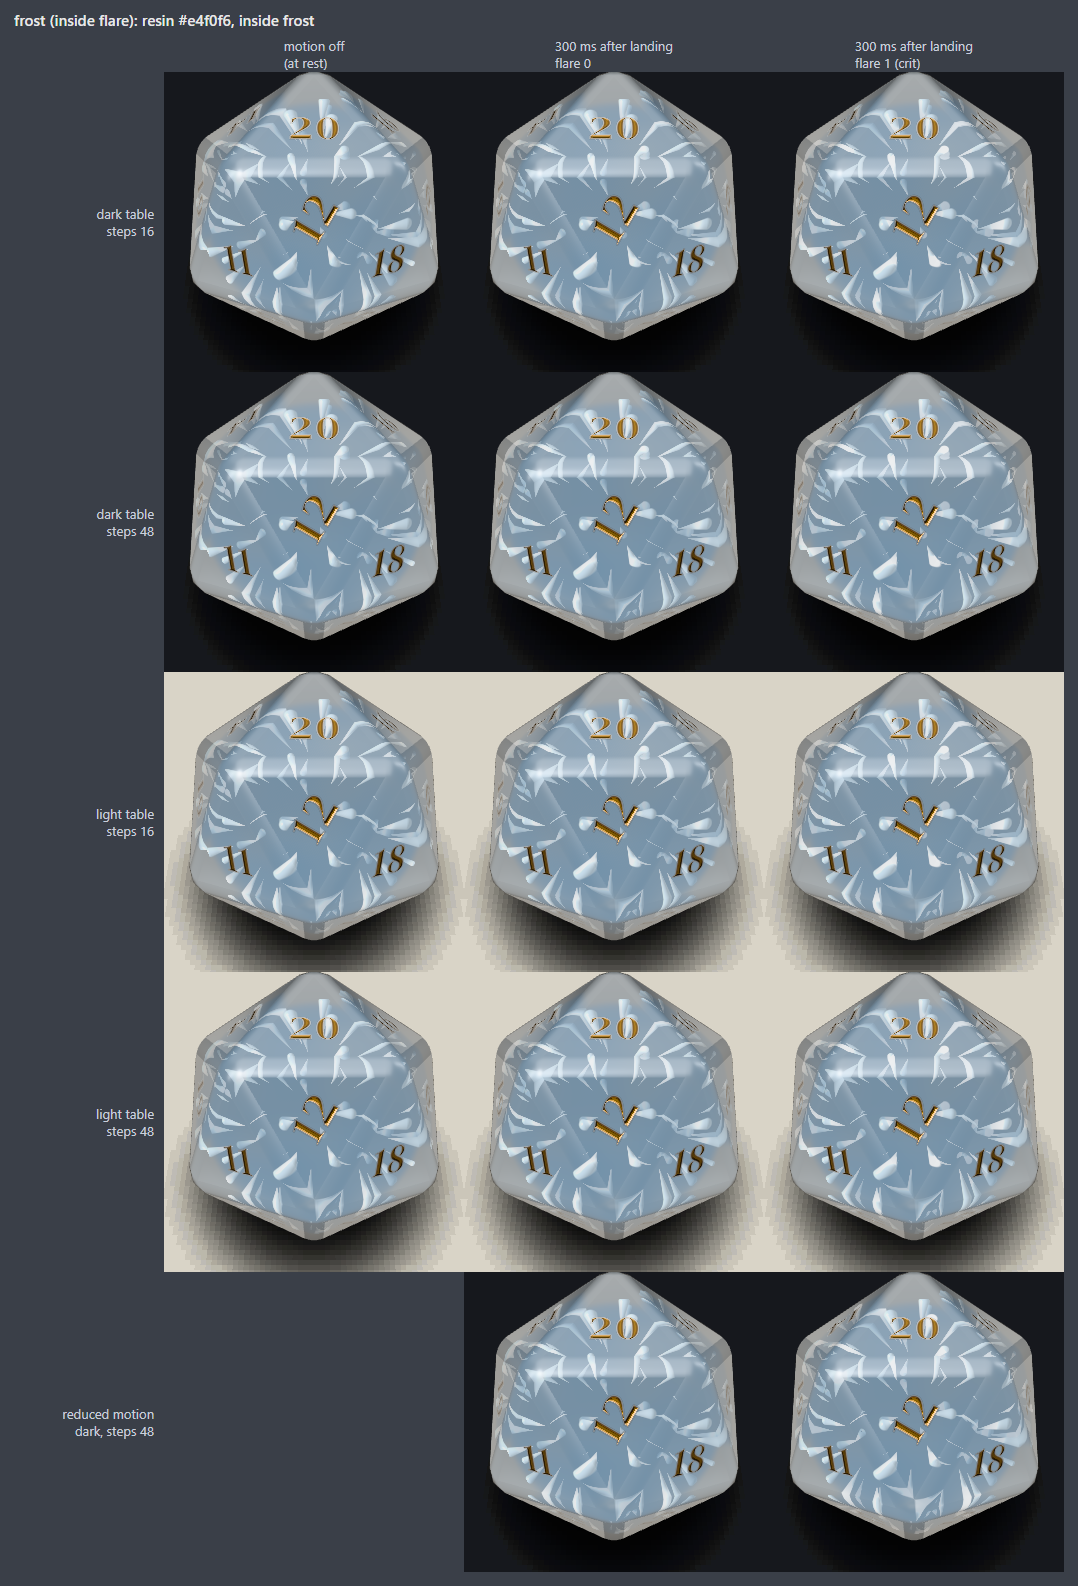
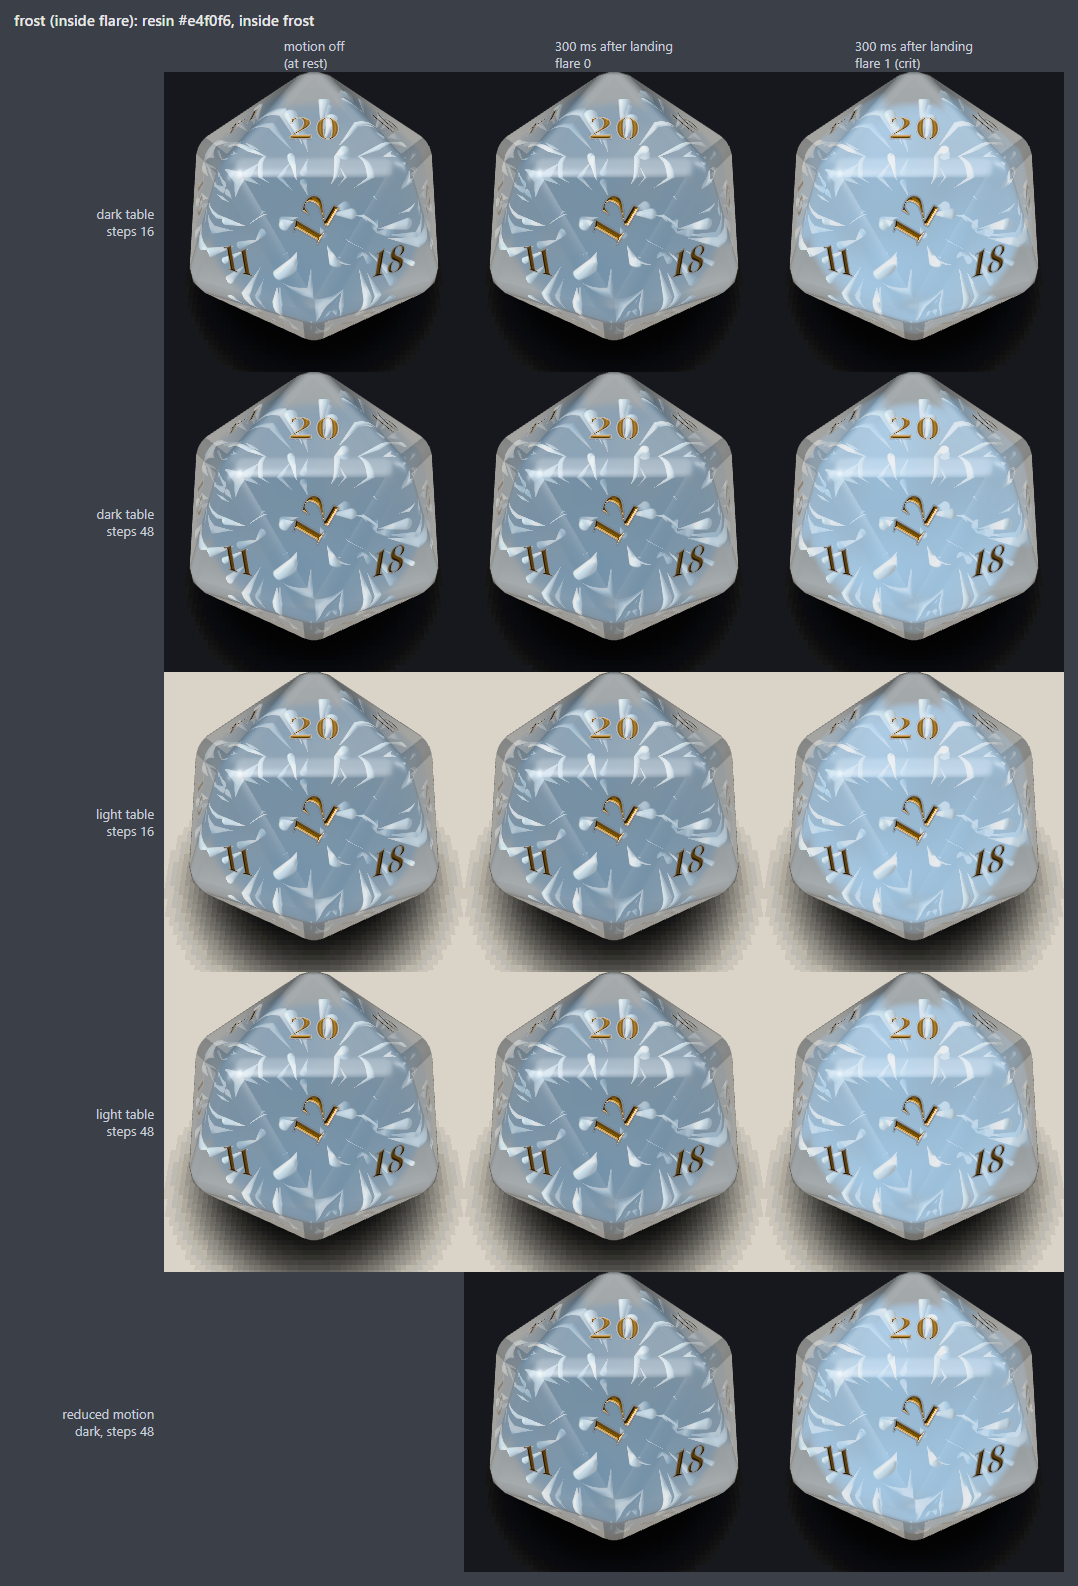
fix(insides): cap flare amount, legible lava, visible frost flash
Cap each flare's amount at 1 so number-flare (intensity 2.5) keeps the
reduced-motion 300 ms rise and has no saturated plateau. Lava at flare 1
opens cracks only half way and widens them a third (hotter lips instead),
so the numbers read. Frost flashes in the haze between the pale spikes.
README notes the four built-in shapes do not brighten.

diff --git a/tests/unit/inside-flare.test.js b/tests/unit/inside-flare.test.js
@@ -91,19 +91,26 @@ describe('flareInside', () => {
     const die = insideDie();
     const ctx = ctxFor(die);
     const a = flareInside(ctx, die, { amount: 2.5, duration: 900 });
-    const b = flareInside(ctx, die, { amount: 0.6, duration: 2000 });
+    const b = flareInside(ctx, die, { amount: 0.3, duration: 2000 });
+    const c = flareInside(ctx, die, { amount: 1, duration: 900 });
     a.update(0);
     b.update(0);
+    c.update(0);
     a.update(80);
     b.update(80);
-    expect(die.uniforms.uInteriorFlare.value).toBe(1); // capped
+    c.update(80);
+    expect(die.uniforms.uInteriorFlare.value).toBe(1); // two at full: still 1
+    // an amount above 1 is capped per flare: no saturated plateau, it follows the envelope
+    c.stop();
+    a.update(490);
+    expect(die.uniforms.uInteriorFlare.value).toBeCloseTo(flareLevel(490, 900, false), 5);
     // a ends: b's own level takes over (not a's leftover, not zero)
     b.update(900);
     a.update(900);
-    const bLevel = 0.6 * flareLevel(900, 2000, false);
+    const bLevel = 0.3 * flareLevel(900, 2000, false);
     expect(die.uniforms.uInteriorFlare.value).toBeCloseTo(bLevel, 5);
     b.update(1000);
-    expect(die.uniforms.uInteriorFlare.value).toBeCloseTo(0.6 * flareLevel(1000, 2000, false), 5);
+    expect(die.uniforms.uInteriorFlare.value).toBeCloseTo(0.3 * flareLevel(1000, 2000, false), 5);
     b.stop();
     expect(die.uniforms.uInteriorFlare.value).toBe(0);
   });
@@ -118,6 +125,18 @@ describe('flareInside', () => {
     weak.update(80);
     weak.update(160);
     expect(die.uniforms.uInteriorFlare.value).toBeCloseTo(flareLevel(80, 900, false), 5);
+  });
+
+  test('an amount above 1 keeps the reduced-motion 300 ms rise (capped, not saturated early)', () => {
+    const die = insideDie();
+    const h = flareInside(ctxFor(die, { reducedMotion: true }), die, { amount: 2.5, duration: 900 });
+    h.update(0);
+    h.update(80);
+    expect(die.uniforms.uInteriorFlare.value).toBeLessThan(0.5);
+    h.update(200);
+    expect(die.uniforms.uInteriorFlare.value).toBeLessThan(0.95);
+    h.update(600);
+    expect(die.uniforms.uInteriorFlare.value).toBeCloseTo(flareLevel(600, 900, true), 5); // no plateau
   });
 
   test('reduced motion: the written flare rises over 300 ms', () => {
@@ -161,12 +180,20 @@ describe('flareInside', () => {
     expect(d3.uniforms.uInteriorFlare.value).toBe(0);
     // no die at all
     expect(() => flareInside(ctxFor(null), null, {}).update(0)).not.toThrow();
-    // a throwing setting reader counts as on (the layer's setting() never throws; be safe anyway)
+    // a missing or throwing setting reader counts as on (the layer's setting() never throws; be safe anyway)
     const d4 = insideDie();
     const h4 = flareInside(ctxFor(d4, { setting: undefined }), d4, {});
     h4.update(0);
     h4.update(80);
     expect(d4.uniforms.uInteriorFlare.value).toBeGreaterThan(0.9);
+    const d5 = insideDie();
+    const throwing = () => {
+      throw new Error('settings not ready');
+    };
+    const h5 = flareInside(ctxFor(d5, { setting: throwing }), d5, {});
+    h5.update(0);
+    h5.update(80);
+    expect(d5.uniforms.uInteriorFlare.value).toBeGreaterThan(0.9);
   });
 
   test('stop() before the end resets the flare; stop twice is harmless', () => {

diff --git a/src/render/extras/insides/lava.js b/src/render/extras/insides/lava.js
@@ -16,7 +16,8 @@
  *
  * Motion: DC_LA_T is uInteriorTime with insideMotion, the constant 0 without (a still frame, no
  * uniform read). DC_LA_FLARE is uInteriorFlare (0..1, roll effects: effects/library/inside-flare.js)
- * with insideMotion, the constant 0 without: the cracks all open and widen (lava cracks wide).
+ * with insideMotion, the constant 0 without: the cracks all open at least half way, widen a third
+ * and their lips glow hotter (lava cracks wide), held back so the numbers still read at landing.
  *
  * Cost: an early out outside the pool, then three noise lookups per sample; the first opaque
  * sample usually ends the march.
@@ -66,9 +67,10 @@ vec4 dcInterior( vec3 p, vec3 rd, float dt ) {
 	float n2 = dcNoise3( ps * 7.0 + 1.9 );
 	float n3 = dcNoise3( ps * 15.0 - 5.2 );
 	float ridge = 1.0 - abs( 2.0 * mix( n2, n3, 0.3 ) - 1.0 );
-	// the inside flare cracks it wide: every crack opens, up to twice as wide
-	float open = max( 0.5 + 0.5 * sin( DC_LA_T * DC_LA_W + n1 * 9.0 ), DC_LA_FLARE );
-	float wid = mix( 0.02, 0.14, open ) * ( 1.0 + DC_LA_FLARE ) + dt * 0.3;
+	// the inside flare cracks it wide, held back so the numbers still read: every crack opens at
+	// least half way and widens a third; the lips glow hotter (below)
+	float open = max( 0.5 + 0.5 * sin( DC_LA_T * DC_LA_W + n1 * 9.0 ), 0.5 * DC_LA_FLARE );
+	float wid = mix( 0.02, 0.14, open ) * ( 1.0 + 0.35 * DC_LA_FLARE ) + dt * 0.3;
 	float crack = smoothstep( 1.0 - wid, 1.0 - 0.35 * wid, ridge );
 	float crust = shell * ( 1.0 - crack );
 	// the molten body: cool edge to hot core with the churn, brightest in the open cracks
@@ -77,7 +79,7 @@ vec4 dcInterior( vec3 p, vec3 rd, float dt ) {
 	// the crust: the lava's colour darkened, lit a little by the key, warm at the crack lips
 	float lip = smoothstep( 1.0 - 3.0 * wid, 1.0 - wid, ridge );
 	float lit = 0.3 + 0.7 * max( dot( dcIUp, dcIKey ), 0.0 );
-	vec3 rock = uInteriorColors[ 1 ] * ( 0.025 *( dcILight * lit + 0.25 ) + 0.4 * lip * lip );
+	vec3 rock = uInteriorColors[ 1 ] * ( 0.025 *( dcILight * lit + 0.25 ) + 0.4 * ( 1.0 + DC_LA_FLARE ) * lip * lip );
 	vec3 col = mix( molten, rock, crust );
 	float a = dcIAlpha( 70.0, dt );
 	return vec4( min( col, vec3( 1.0 ) ) * a, a );

diff --git a/tests/unit/look-extras.test.js b/tests/unit/look-extras.test.js
@@ -865,7 +865,15 @@ describe('insides', () => {
         const fi = fireInside(resin({ type: 'fire', ...COLORS }), true).body;
         expect(count(fi, '( 1.0 + fl )')).toBe(2);
         // frost flashes: glint x ( 1 + 3 flare )
-        expect(frostInside(resin({ type: 'frost', ...COLORS }), true).body).toContain('( 1.0 + 3.0 * DC_FR_FLARE )');
+        const fr = frostInside(resin({ type: 'frost', ...COLORS }), true).body;
+        expect(fr).toContain('( 1.0 + 3.0 * DC_FR_FLARE )');
+        // ... and visibly: the haze between the (saturating) pale spikes lights up, tinted colors[0]
+        expect(fr).toContain('( 1.0 + 0.7 * DC_FR_FLARE ) + uInteriorColors[ 0 ] * ( 0.15 * DC_FR_FLARE )');
+        // lava cracks wide, held back for the numbers: at least half open, a third wider, hotter lips
+        const la = lavaInside(resin({ type: 'lava', ...COLORS }), true).body;
+        expect(la).toContain('0.5 * DC_LA_FLARE )');
+        expect(la).toContain('( 1.0 + 0.35 * DC_LA_FLARE )');
+        expect(la).not.toMatch(/max\( [^;]*, DC_LA_FLARE \)/); // never fully open at flare 1
       });
 
       test('storm strikes: flare-only extra sparks (rate x ( 1 + 5 flare )), the base slots untouched; calm holds', () => {

diff --git a/tests/unit/catalogue.test.js b/tests/unit/catalogue.test.js
@@ -1078,3 +1078,21 @@ describe('inside flare (living insides round 3)', () => {
     }
   });
 });
+
+test('number-flare (intensity 2.5) under reduced motion: the inside flare still rises softly (< 0.5 at 80 ms)', () => {
+  const die = makeDie();
+  die.uniforms.uInteriorFlare = { value: 0 };
+  die.inner.material.userData.uniforms = die.uniforms;
+  const mod = EFFECTS['number-flare'];
+  const ctx = ctxFor(mod, { die, reducedMotion: true, setting: () => undefined });
+  expect(ctx.intensity).toBe(2.5);
+  const h = mod.start(ctx);
+  h.update(0);
+  h.update(80);
+  expect(die.uniforms.uInteriorFlare.value).toBeLessThan(0.5);
+  h.update(300);
+  expect(die.uniforms.uInteriorFlare.value).toBeGreaterThan(0.9);
+  h.update(600);
+  expect(die.uniforms.uInteriorFlare.value).toBeLessThan(0.7); // decaying, no plateau at 1
+  h.stop();
+});

diff --git a/src/render/extras/insides/frost.js b/src/render/extras/insides/frost.js
@@ -146,7 +146,9 @@ vec4 dcInterior( vec3 p, vec3 rd, float dt ) {
 	float haze = ( 0.25 + 1.6 * smoothstep( DC_FR_IN - 0.1, DC_FR_WALL, r ) ) * ( 0.4 + n ) * mix( 0.6, 1.4, uInteriorDensity ) * env;
 	float a = dcIAlpha( haze, dt );
 	vec4 acc = dcFrHits( sp, lim, haze );
-	vec3 hc = uInteriorColors[ 1 ] * ( dcILight * 0.55 + 0.2 );
+	// the inside flare: the haze lights up from within, a cold glow tinted toward colors[0] (pale
+	// spikes saturate, so the flash shows in the haze between them); flare 0 changes nothing
+	vec3 hc = uInteriorColors[ 1 ] * ( dcILight * 0.55 + 0.2 ) * ( 1.0 + 0.7 * DC_FR_FLARE ) + uInteriorColors[ 0 ] * ( 0.15 * DC_FR_FLARE );
 	return acc + ( 1.0 - acc.a ) * vec4( min( hc, vec3( 1.0 ) ) * a, a );
 }
 `;

diff --git a/src/effects/library/inside-flare.js b/src/effects/library/inside-flare.js
@@ -60,7 +60,9 @@ export function flareInside(ctx, die, { amount = 1, duration = ctx?.duration } =
   const uniform = ctx.isolate?.(die)?.uInteriorFlare;
   if (!uniform) return NOOP;
   const D = Math.max(0, Number(duration) || 0);
-  const k = Math.max(0, Number(amount) || 0);
+  // capped per flare: an amount above 1 (number-flare's intensity 2.5) must not saturate early,
+  // which would shorten the reduced-motion 300 ms rise and hold a flat plateau at 1
+  const k = Math.min(1, Math.max(0, Number(amount) || 0));
   const reduced = !!ctx.reducedMotion;
   const me = { v: 0 };
   let set = active.get(uniform);

diff --git a/README.md b/README.md
@@ -110,7 +110,7 @@ In the theme browser press **New theme** (or duplicate a theme and edit it). The
 - **Edges**: five steps of sharpness, from sharp to very round. The d4 can be **classic** (the usual pyramid with the numbers at the corners) or **crystal** (a stretched double pyramid, like a crystal).
 - **Glow**, a look **per die type**, and the **sound and celebrations**.
 - **Living insides** (a setting, per player, on by default): the inside of a resin die moves while it rolls and comes to rest about 10 seconds after it lands. Turn it off to keep insides still. With your operating system's reduced motion on, they move more slowly.
-- **Effects flare insides** (a setting, per player, on by default): crit and fumble effects (lightning, frost, fumble, celebrate, light burst, shockwave and the number flare) reach into the die they play on: a liquid core boils, glitter scatters, fire roars, a storm strikes more often, frost flashes, lava cracks wide, every other inside brightens. The flare rises in a moment and fades with the effect; with reduced motion it rises softly once and nothing flashes. It needs **Living insides** on: with Living insides off the insides stay still and this setting does nothing. Only the die of an effect you see flares, so hidden and blind rolls never do. JB2A animations, when they replace the built-in effects, do not flare insides.
+- **Effects flare insides** (a setting, per player, on by default): crit and fumble effects (lightning, frost, fumble, celebrate, light burst, shockwave and the number flare) reach into the die they play on: a liquid core boils, glitter scatters, fire roars, a storm strikes more often, frost flashes, lava cracks wide, every other inside brightens (except the four simple floating shapes, star, heart, skull and sphere, which stay as they are). The flare rises in a moment and fades with the effect; with reduced motion it rises softly once and nothing flashes. It needs **Living insides** on: with Living insides off the insides stay still and this setting does nothing. Only the die of an effect you see flares, so hidden and blind rolls never do. JB2A animations, when they replace the built-in effects, do not flare insides.
 - **Elemental damage dice** (a setting, per world, on by default): fire, cold and electricity damage dice get flame, frost and storm insides instead of resin ones. Turn it off for the resin look. A damage type you remapped to a colorset or to one of your own themes is left as written; a remap to the built-in fire, cold or electricity theme gets that theme's elemental inside.
 
 Every look is saved as a theme, so it can be your default, be used for one die type, one kind of roll or one character, be exported, and (GM) be published to the world.
